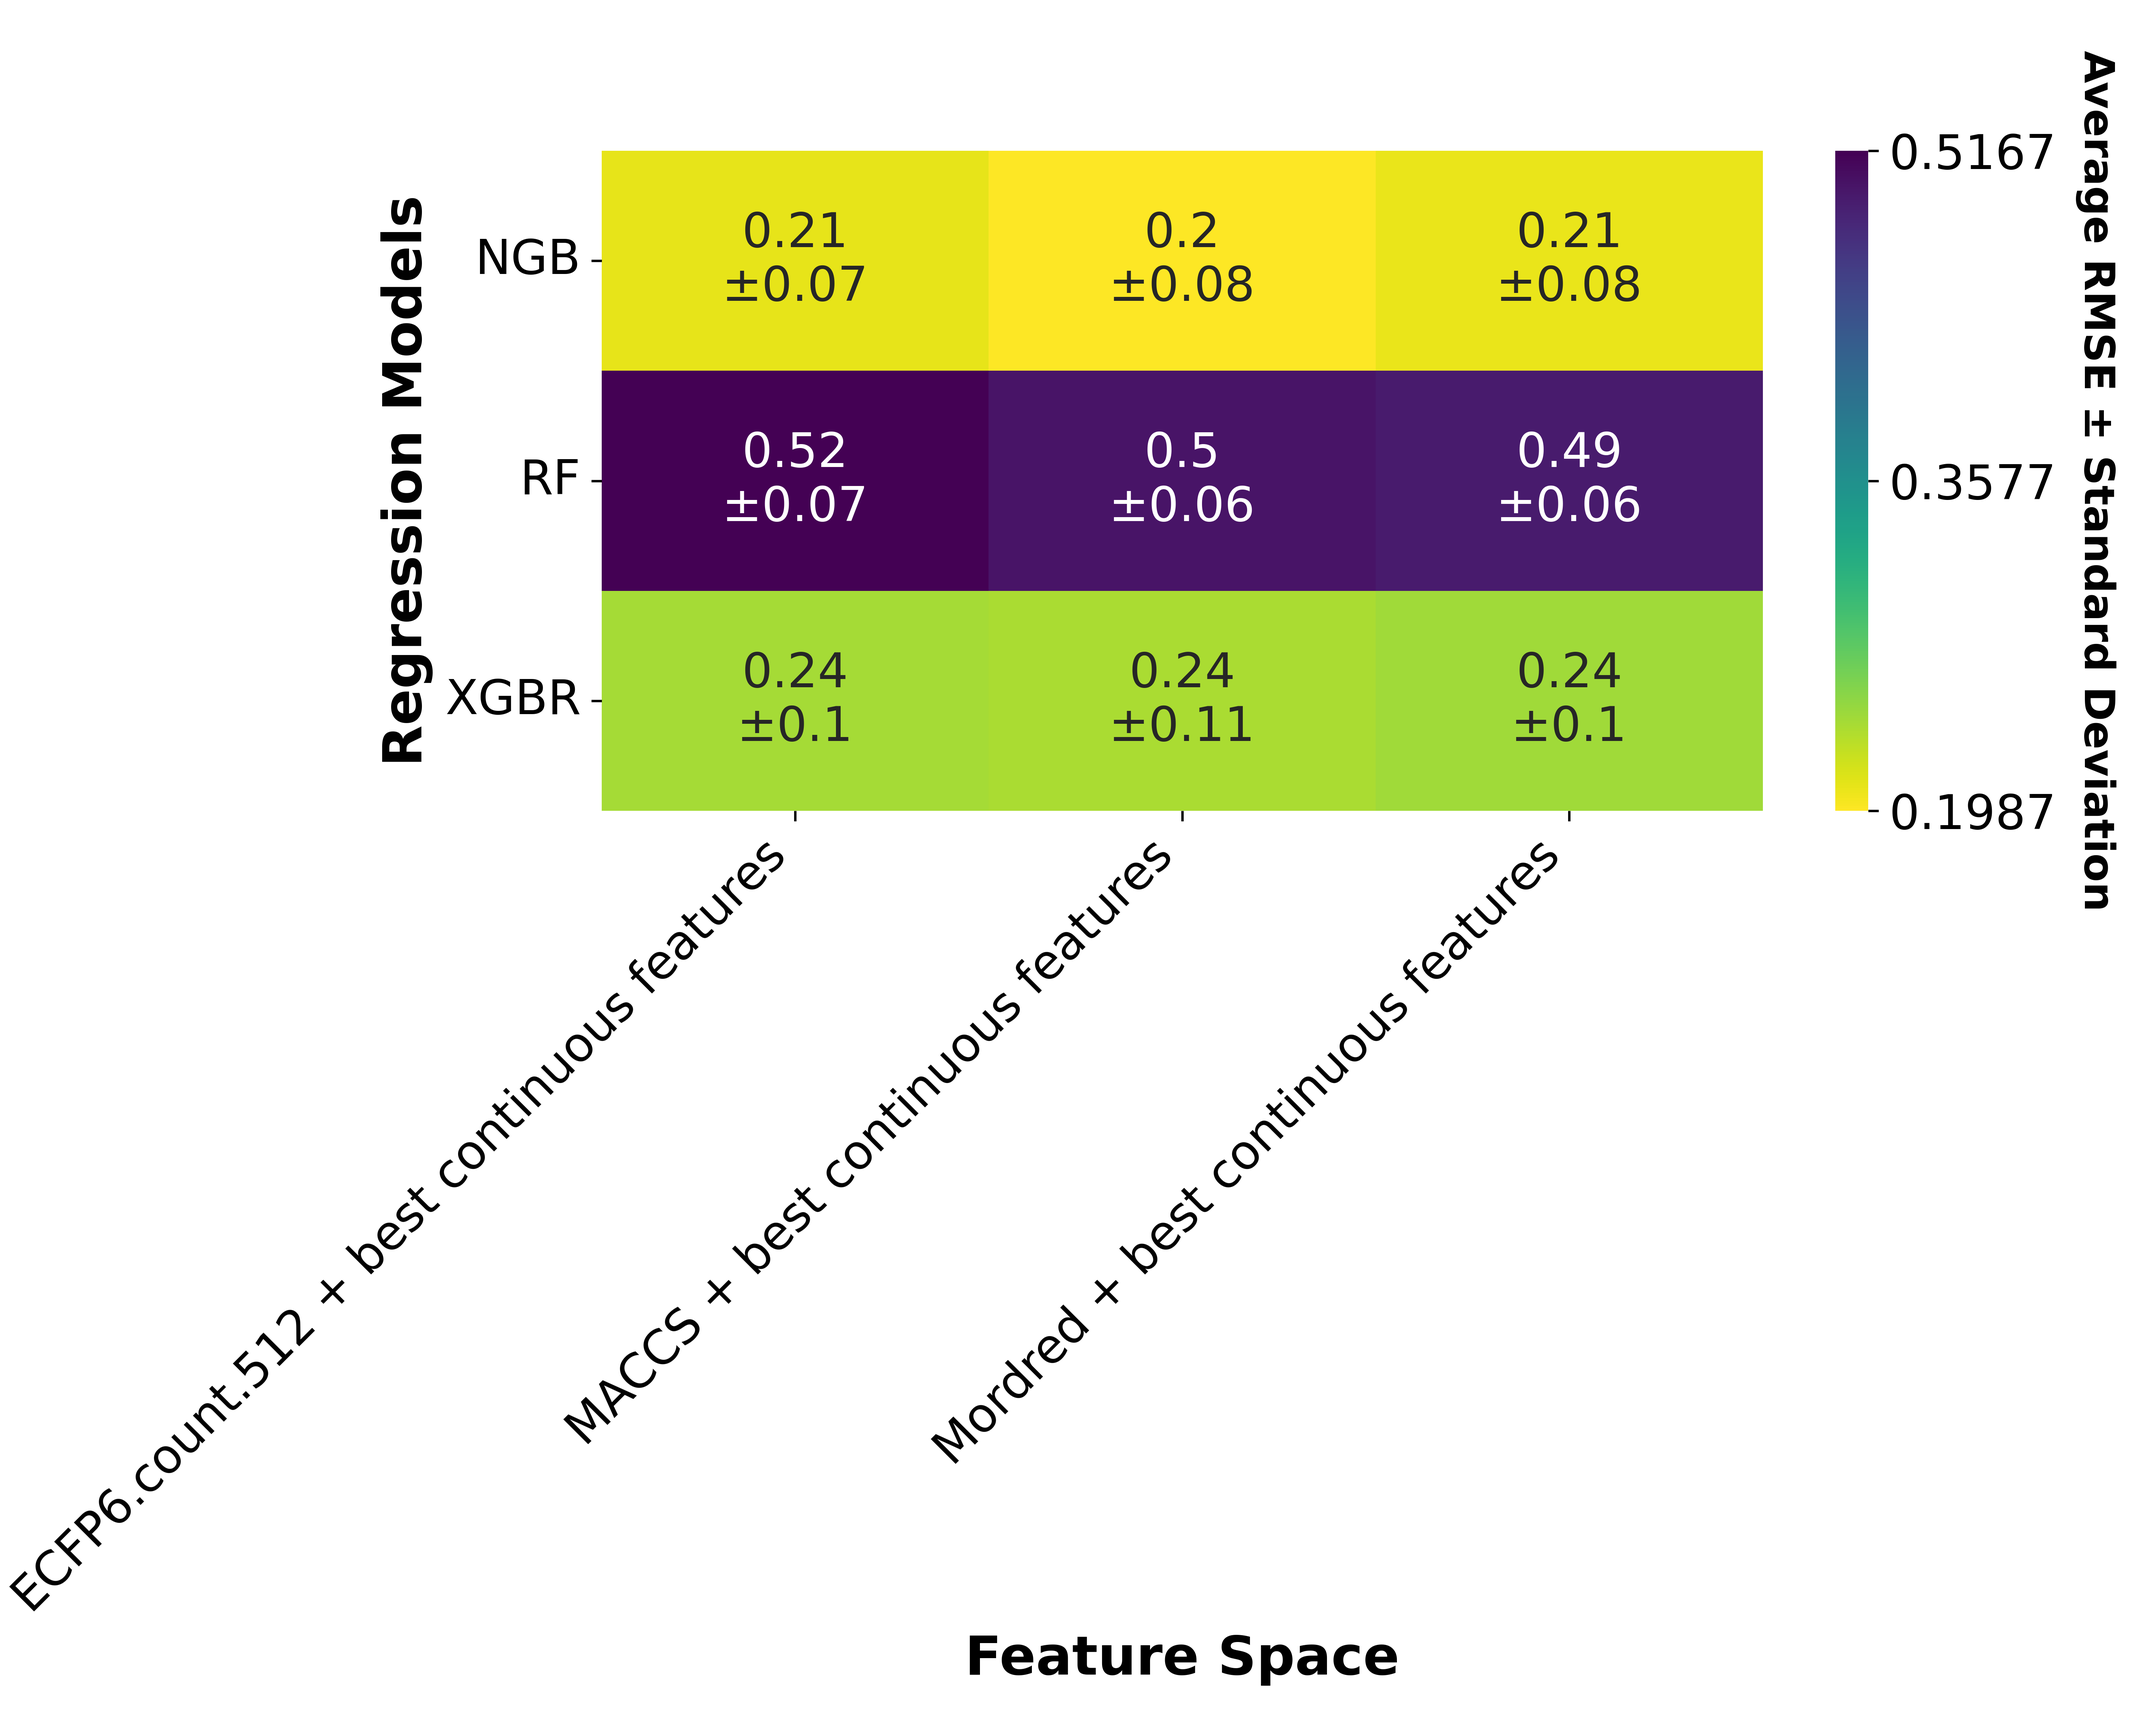
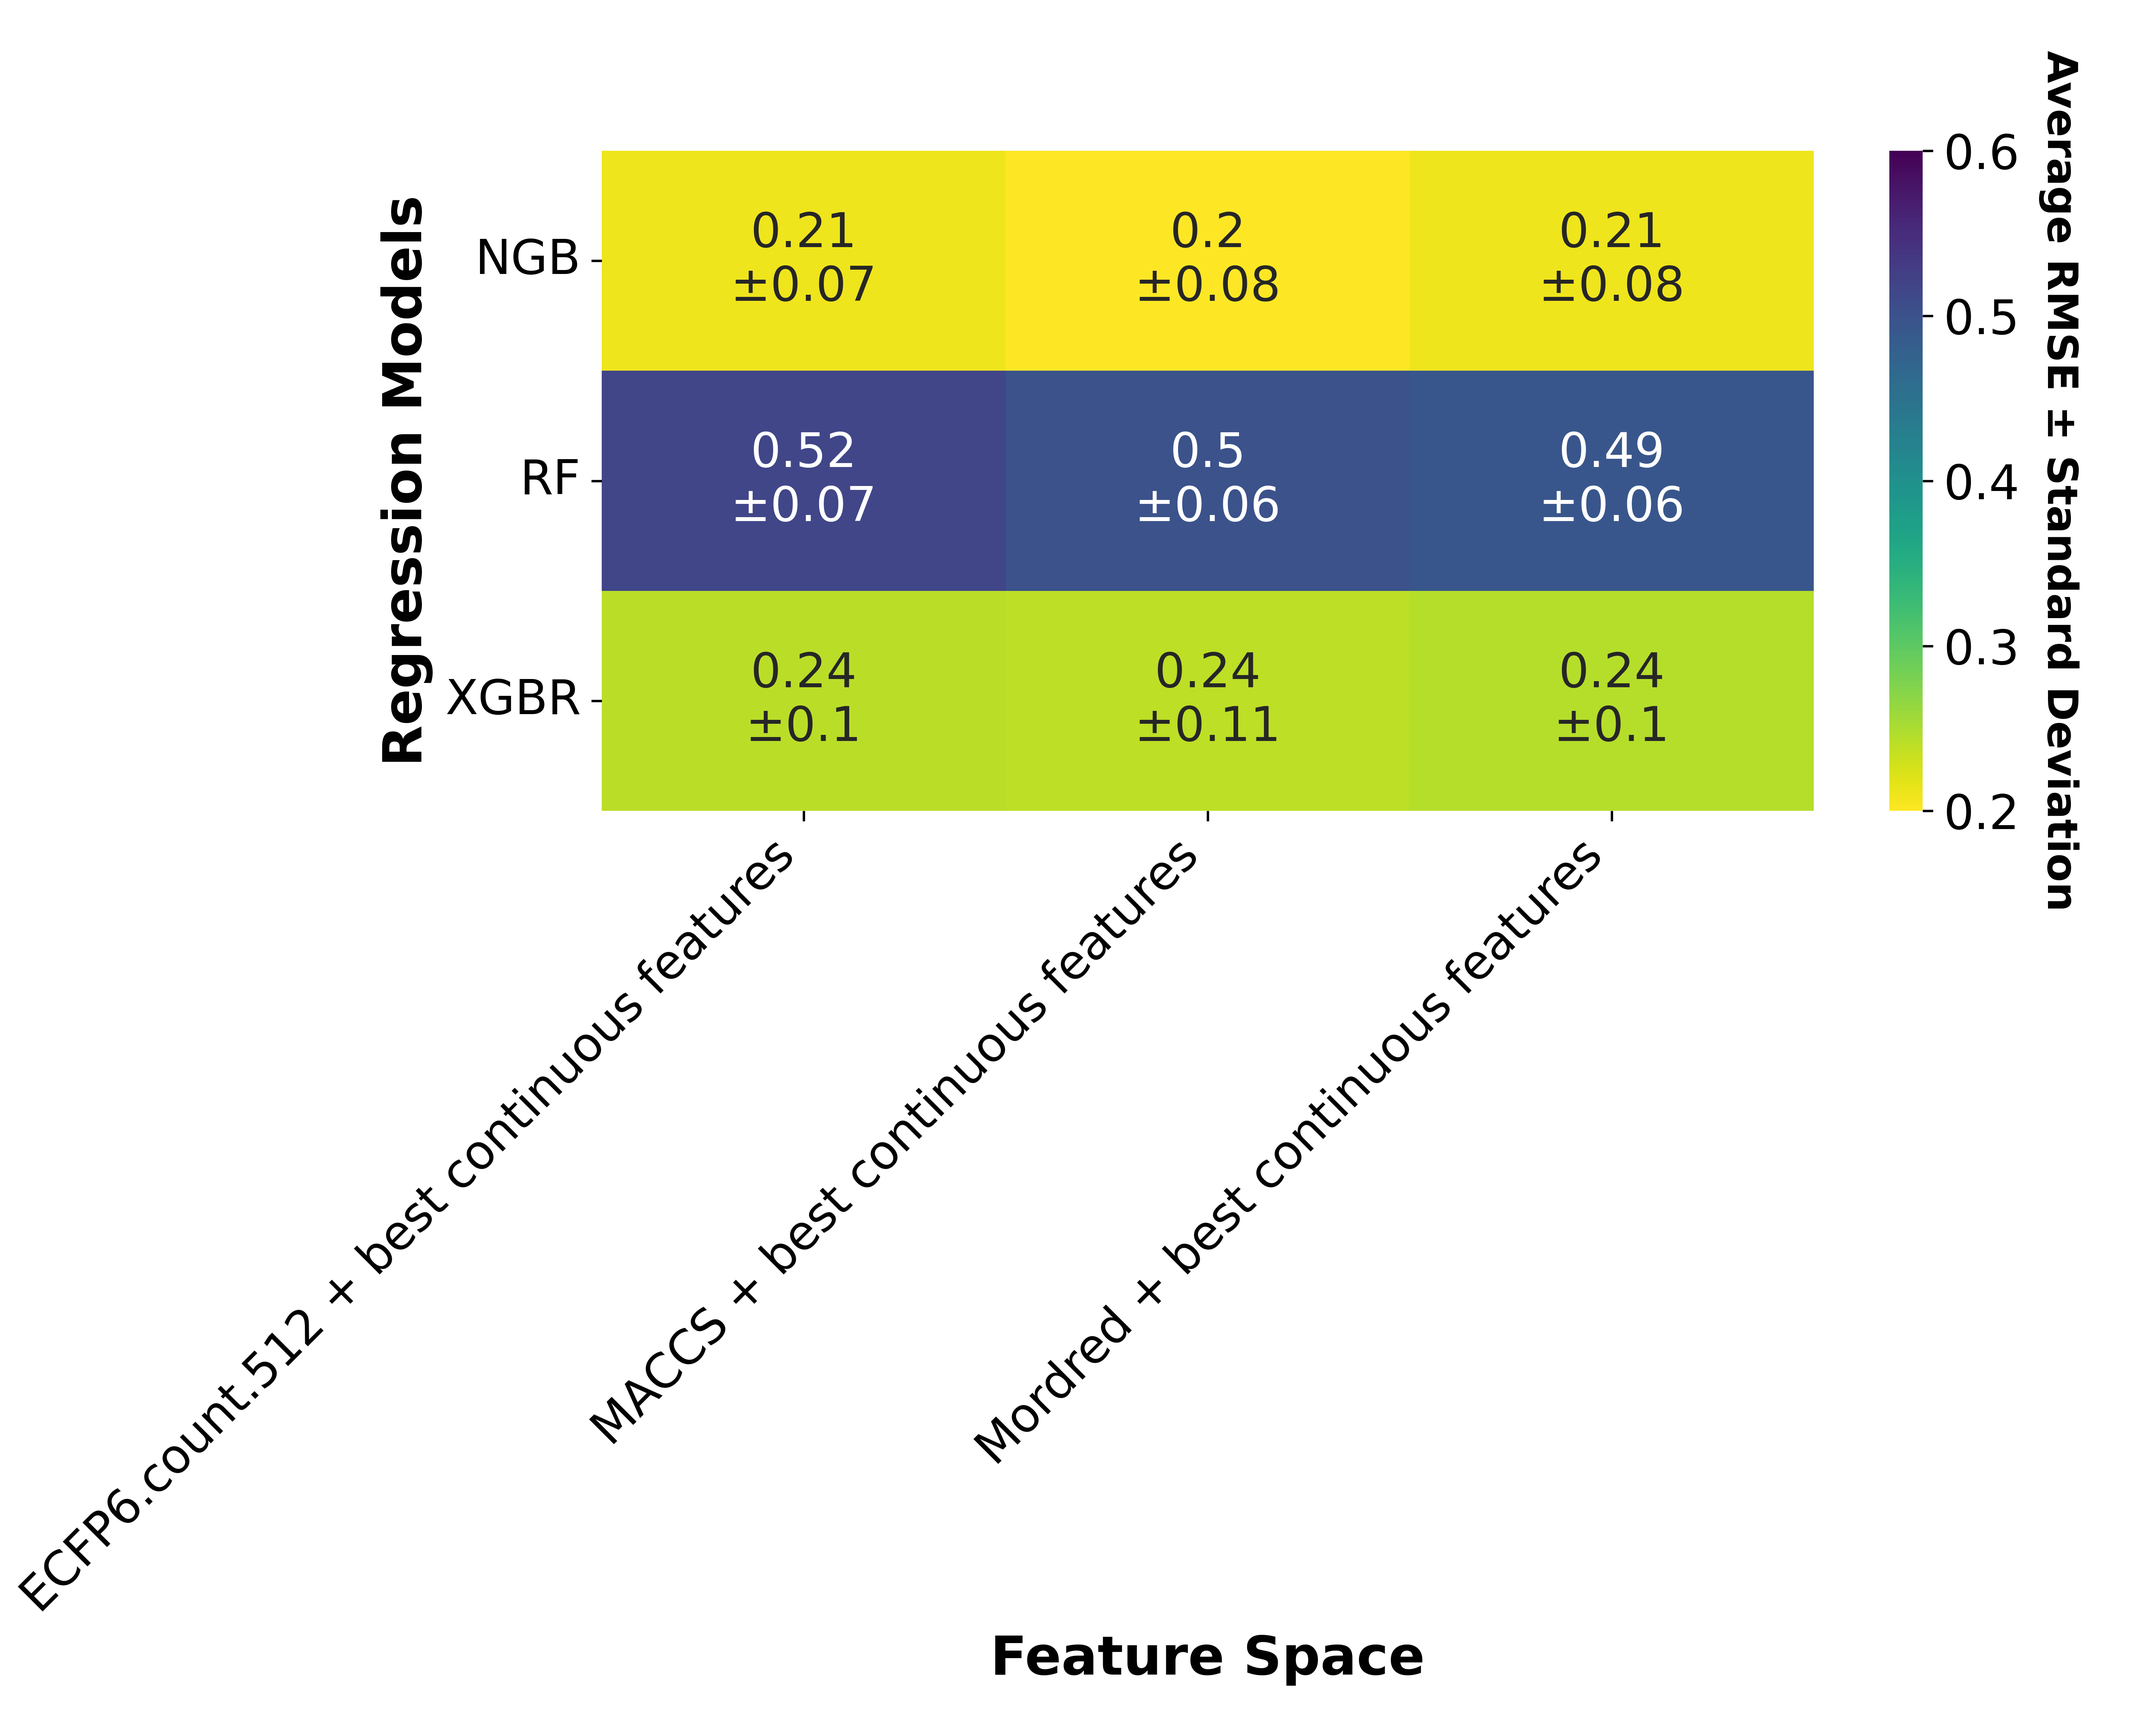
updated

diff --git a/code_/visualization/paper visualize_heatmap.py b/code_/visualization/paper visualize_heatmap.py
@@ -434,7 +434,8 @@ def create_structural_result(target_dir:Path,
                     y_title="Polymer Unit Representation",
                     fname=fname,
                     vmin=.55,
-                    vmax=.57)
+                    vmax=.57
+                    )
 
 
 def create_structural_scaler_result(target_dir:Path,
@@ -464,6 +465,9 @@ def create_structural_scaler_result(target_dir:Path,
                     x_title="Feature Space",
                     y_title="Regression Models",
                     fname=fname,
+                    num_ticks=5,
+                    vmin=0.2,
+                    vmax=0.6,
                     )
 
 #    'XGBR','RF','NGB'"GPR.matern", "GPR.rbf" "GPR"
@@ -515,7 +519,7 @@ def create_scaler_result(target_dir:Path,
                     feature_order=['polysize','solvent_properties','polymer_HSPs','solvent_HSPs','polymer_HSPs + solvent_HSPs','solvent_properties + polymer_HSPs + solvent_HSPs','polysize + solvent_properties + polymer_HSPs + solvent_HSPs'],
                     model_order=['RF','DT','MLR'],
                     num_ticks=3,
-                    v
+            
                     )
 
 # simple_models = ['MLR','DT','RF']
